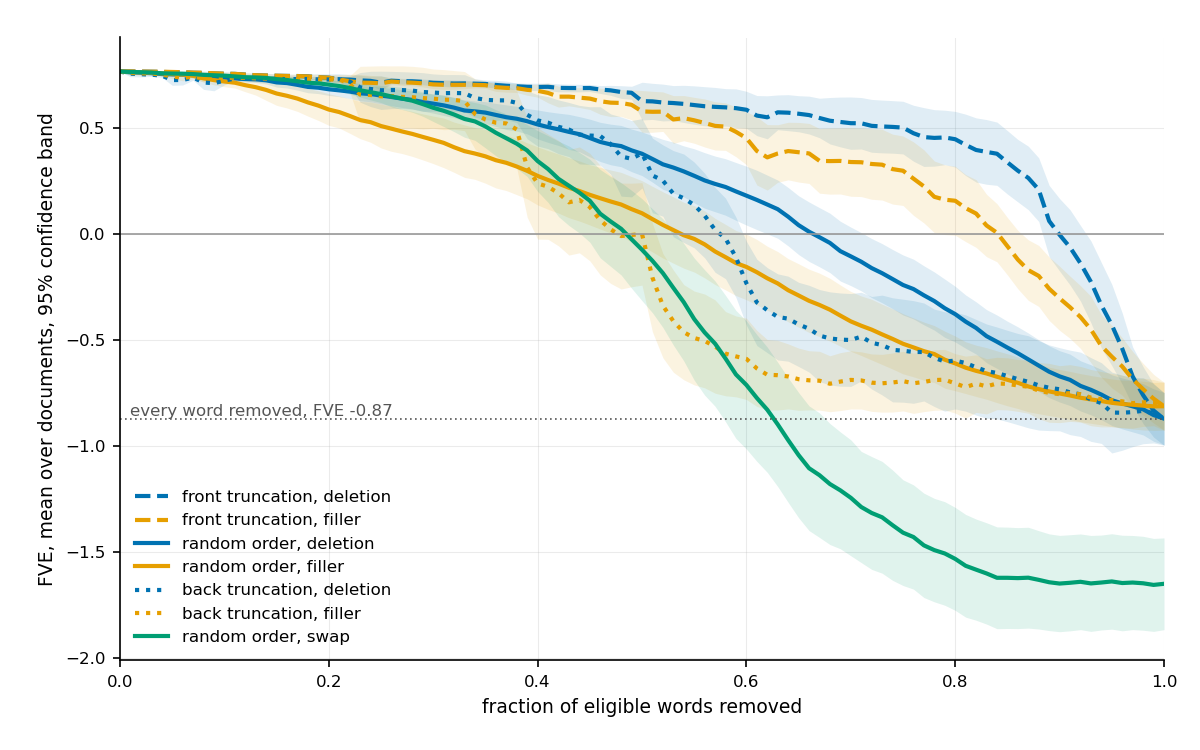
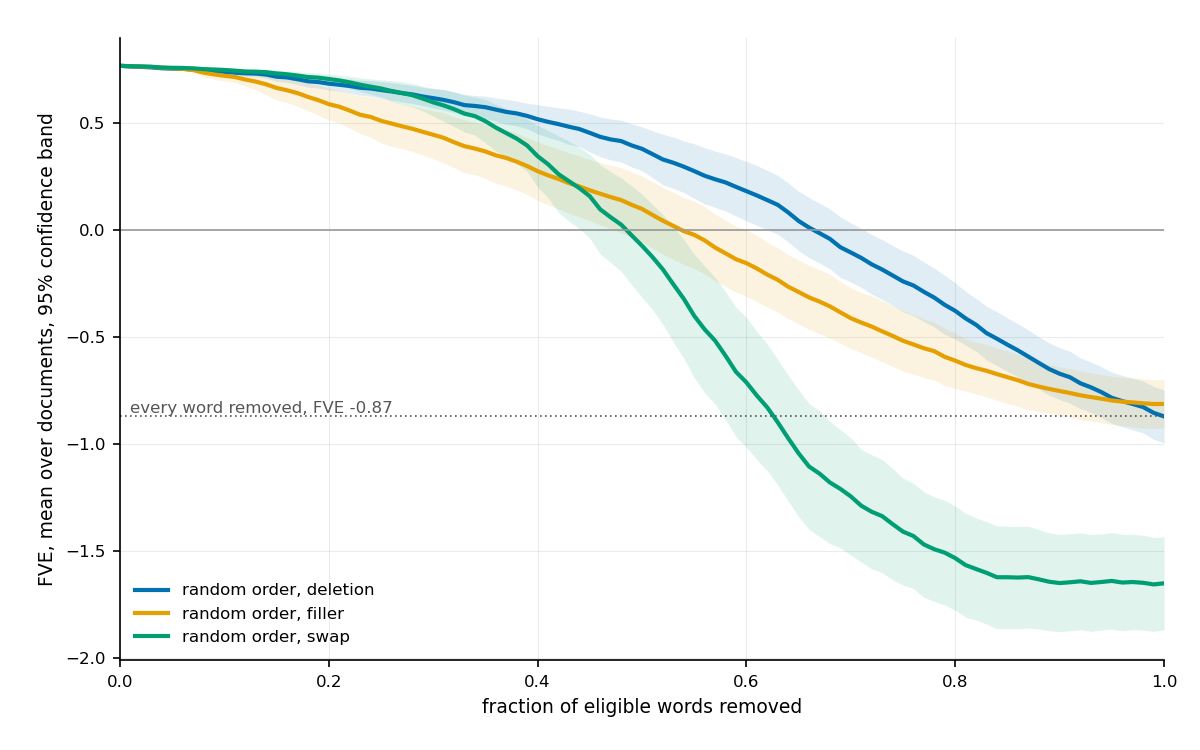
07: random-order curves only in removal_curves, truncation front vs back as its own figure
Claude-Session: https://claude.ai/code/session_011FiNiLAhKTFPu6QpVHh2jp

diff --git a/07_removal-curve/removal_analysis.py b/07_removal-curve/removal_analysis.py
@@ -148,8 +148,8 @@ def main():
         L.append(f"| {doc} | {base.set_index('doc_id').loc[doc, 'base_fve']:.3f} | {ends[doc]:.3f} | {ends[doc] - base.set_index('doc_id').loc[doc, 'base_fve']:+.3f} | {first.mean() * n:+.3f} |")
     L.append("")
 
-    # figure: every mean curve on one axis, with a 95% confidence band for the
-    # mean over documents (each document's permutations averaged first)
+    # figure: the three random-order curves on one axis, with a 95% confidence band
+    # for the mean over documents (each document's permutations averaged first)
     figstyle.apply()
     fine = np.linspace(0, 1, 101)
     def on_fine(g):
@@ -165,7 +165,7 @@ def main():
     floor = float(ends.mean())
     fig, ax = plt.subplots(figsize=(8.0, 5.0))
     fig.subplots_adjust(left=0.10, right=0.97, top=0.95, bottom=0.12)
-    for c in (2, 5, 0, 4, 3, 6, 1):          # legend order follows the curves at 60% removed
+    for c in (0, 4, 1):                      # legend order follows the curves at 60% removed
         per_doc = np.array([np.mean([on_fine(g) for _, g in gd.groupby("perm")], axis=0)
                             for _, gd in d[d["curve"] == c].groupby("doc_id")])
         m = per_doc.mean(axis=0) + b0
@@ -180,6 +180,25 @@ def main():
     ax.set_ylabel("FVE, mean over documents, 95% confidence band")
     ax.legend(loc="lower left")
     figstyle.save(fig, out / "removal_curves.png")
+    # third figure: front against back truncation under deletion, one faint line per
+    # document and the mean over documents in bold
+    fig, ax = plt.subplots(figsize=(7.5, 4.4))
+    fig.subplots_adjust(left=0.10, right=0.98, top=0.95, bottom=0.13)
+    tcol = {2: figstyle.SWAP, 3: "#D55E00"}
+    tname = {2: "deleting from the front", 3: "deleting from the back"}
+    for c in (2, 3):
+        ys = []
+        for _, g in d[d["curve"] == c].groupby("doc_id"):
+            g = g.sort_values("frac")
+            x = np.concatenate([[0], g["frac"].values]); y = np.concatenate([[g["base_fve"].iloc[0]], g["fve"].values])
+            ax.plot(x, y, color=tcol[c], lw=0.7, alpha=0.28)
+            ys.append(np.interp(fine, x, y))
+        ax.plot(fine, np.mean(ys, axis=0), color=tcol[c], lw=2.4, label=tname[c])
+    ax.axhline(0, color="#999999", lw=0.8)
+    ax.set_xlim(0, 1); ax.grid(axis="y", alpha=0.25, lw=0.5)
+    ax.set_xlabel("fraction of eligible words removed"); ax.set_ylabel("FVE")
+    ax.legend(loc="lower left", title=f"mean over {len(docs)} documents; faint lines are the documents")
+    figstyle.save(fig, out / "truncation_front_vs_back.png")
     # second figure: the first ten removals step by step, in FVE points lost
     steps = np.arange(0, 11)
     fig, ax = plt.subplots(figsize=(8.0, 4.4))
@@ -198,10 +217,11 @@ def main():
     ax.set_ylabel("FVE points lost, mean over documents")
     ax.legend(loc="upper left", handlelength=4.0)
     figstyle.save(fig, out / "removal_first_steps.png")
-    L += ["## Figures", "", f"removal_curves.png: FVE against fraction removed, mean per curve type with a 95% "
-          f"confidence band for the mean over the {len(docs)} documents (each document's permutations averaged "
-          f"first); colour is the primitive, dashed is front truncation, dotted is back; the dotted horizontal "
-          f"line is the mean FVE with every eligible word deleted",
+    L += ["## Figures", "", f"removal_curves.png: FVE against fraction removed under random order, one mean curve per "
+          f"primitive with a 95% confidence band for the mean over the {len(docs)} documents (each document's "
+          f"permutations averaged first); the dotted horizontal line is the mean FVE with every eligible word deleted",
+          f"truncation_front_vs_back.png: FVE against fraction removed under deletion, truncating from the front and "
+          f"from the back, one faint line per document and the mean over the {len(docs)} documents in bold",
           f"removal_first_steps.png: the same seven curve types over the first ten words removed, in FVE points "
           f"lost (100 x the drop in FVE), mean over the {len(docs)} documents", ""]
     (out / "statistics.md").write_text("\n".join(L))

diff --git a/07_removal-curve/results/statistics.md b/07_removal-curve/results/statistics.md
@@ -110,5 +110,6 @@ random filler: mean dFVE -0.0021, mean |dFVE| 0.0036, n 160
 
 ## Figures
 
-removal_curves.png: FVE against fraction removed, mean per curve type with a 95% confidence band for the mean over the 20 documents (each document's permutations averaged first); colour is the primitive, dashed is front truncation, dotted is back; the dotted horizontal line is the mean FVE with every eligible word deleted
+removal_curves.png: FVE against fraction removed under random order, one mean curve per primitive with a 95% confidence band for the mean over the 20 documents (each document's permutations averaged first); the dotted horizontal line is the mean FVE with every eligible word deleted
+truncation_front_vs_back.png: FVE against fraction removed under deletion, truncating from the front and from the back, one faint line per document and the mean over the 20 documents in bold
 removal_first_steps.png: the same seven curve types over the first ten words removed, in FVE points lost (100 x the drop in FVE), mean over the 20 documents

diff --git a/07_removal-curve/README.md b/07_removal-curve/README.md
@@ -103,6 +103,7 @@ Run 9 ran on an NVIDIA H100 80GB HBM3 with 132 SMs, under torch 2.6.0+cu124 with
 removal_curve.py            the GPU run that wrote run 9
 removal_analysis.py         the tables and the figure, read from the store
 results/statistics.md       the printed report, nine sections between the setup header and the figure list
-results/removal_curves.png  FVE against fraction removed, every curve type on one axis, mean with a 95% confidence band over the 20 documents
+results/removal_curves.png  FVE against fraction removed under random order, one mean curve per primitive with a 95% confidence band over the 20 documents
+results/truncation_front_vs_back.png  FVE against fraction removed under deletion, front and back truncation, one faint line per document and the mean in bold
 results/removal_first_steps.png  the first ten words removed, in FVE points lost, same encoding
 ```
